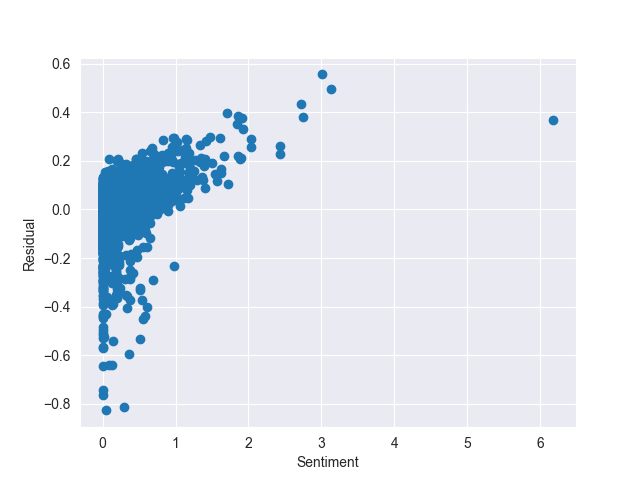
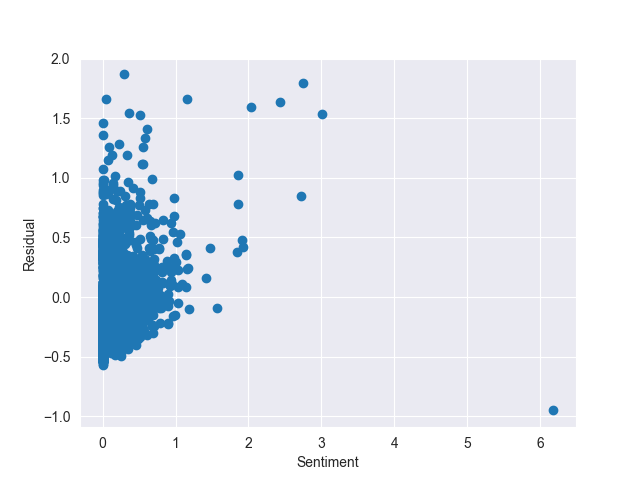
added financial data

diff --git a/Model/model.py b/Model/model.py
@@ -3,7 +3,8 @@ import pandas as pd
 import seaborn as sns
 import matplotlib.pyplot as plot
 from sklearn.metrics import precision_score, recall_score, accuracy_score, roc_auc_score, roc_curve
-from sklearn.linear_model import LogisticRegressionCV, LinearRegression
+from sklearn.preprocessing import StandardScaler
+from sklearn.linear_model import LogisticRegressionCV, LinearRegression, LassoCV
 from sklearn.model_selection import train_test_split
 from scipy.stats import probplot, norm
 sns.set_style('darkgrid')
@@ -22,14 +23,24 @@ sentiment_data = pd.read_csv('../MarketSentiment/csvData/BA/BA.csv', index_col=0
 sentiment_data.index = pd.to_datetime( sentiment_data.index, format='%Y-%m-%d' )
 data['Sentiment'] = sentiment_data['Total Sentiment']
 data['Number of Articles'] = sentiment_data['Number of Articles']
+fundamentals_data = pd.read_csv('../Fundamentals/csvData/BA.csv', index_col=0)
+fundamentals_data.index = pd.to_datetime( fundamentals_data.index, format='%Y-%m-%d' )
+fundamentals_data = fundamentals_data.resample('D').ffill()
+data['Earnings'] = fundamentals_data['eps_diluted']
+data['Book Value'] = fundamentals_data['bvps_diluted']
 data = data.dropna()
-input_vars = ['Close', 'Sentiment', 'Number of Articles', 'Volume']
+input_vars = ['Close', 'Sentiment', 'Number of Articles', 'Volume', 'Earnings', 'Book Value']
 output_var = 'Close.next'
 # Training
 X = data[ input_vars ]
 y = data[ output_var ]
 X_train, X_test, y_train, y_test, idx_train, idx_test = train_test_split( X, y, data.index, shuffle=False, train_size=0.7 )
 regr = LinearRegression()
+InputScaler = StandardScaler()
+InputScaler.fit( X_train )
+X_train = InputScaler.transform( X_train )
+X_test = InputScaler.transform( X_test )
+X = InputScaler.transform( X )
 regr.fit(X_train, y_train)
 y_hat = regr.predict( X )
 data['Buy.estimate'] = np.where( y_hat > data['Close'], 1, 0 )
